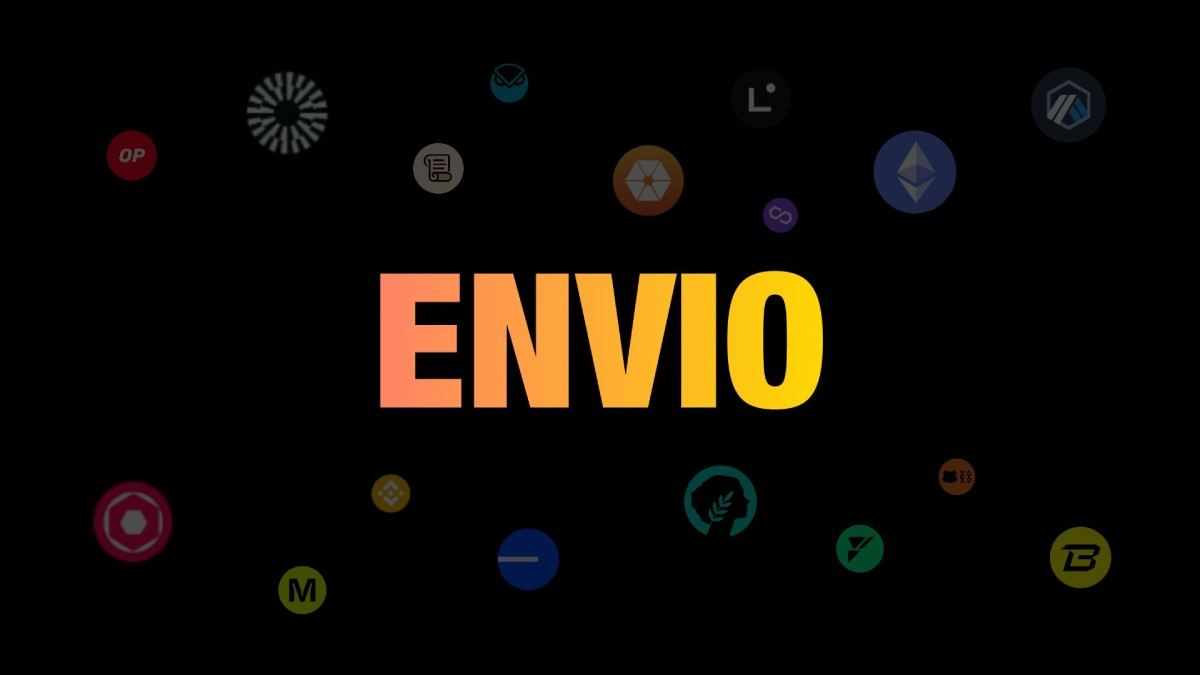
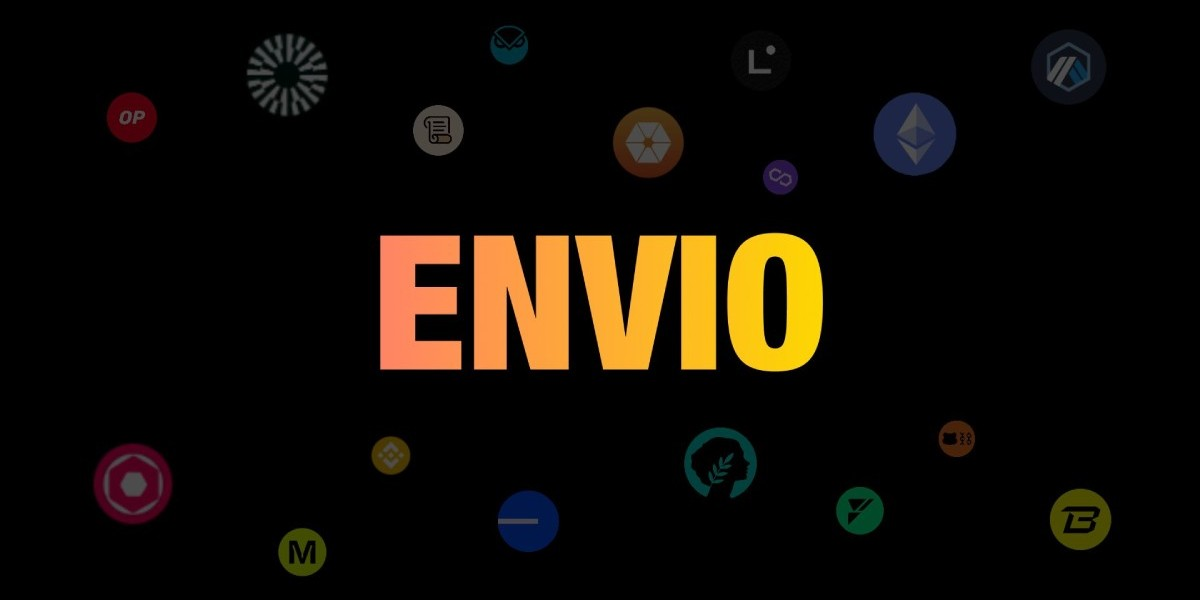
docs: update acknowledgements

diff --git a/content/en/pages/acknowledgements.md b/content/en/pages/acknowledgements.md
@@ -26,13 +26,17 @@ We have also received funding from [ENS](https://ens.domains/) and sponsors such
 
 Reliable blockchain data powers every feature of Revoke.cash, from understanding approvals to flagging risks. We need real-time transaction data, smart contract information and security intelligence to help users understand their token approvals and identify potential risks. This critical data comes from a combination of generous free partnerships and paid services.
 
-::img{src="/assets/images/acknowledgements/envio.jpg" alt="Envio Banner" width="1200" height="675"}
+::img{src="/assets/images/acknowledgements/envio.jpg" alt="Envio Banner" width="1200" height="600"}
 
 [Envio](https://envio.dev/) is a modern blockchain indexing platform that specializes in providing developers with fast, reliable access to on-chain data through their custom indexing infrastructure. Envio provides us with extensive historic data for many of the networks we support.
 
 ::img{src="/assets/images/acknowledgements/blockscout.jpg" alt="Blockscout Banner" width="1200" height="600"}
 
 [Blockscout](https://blockscout.com/) is an open-source blockchain explorer that supports multiple EVM-compatible networks, offering transparent blockchain data access with a focus on decentralization and openness. Blockscout provides us with historic data for many of the networks we support.
+
+::img{src="/assets/images/acknowledgements/goldrush.jpg" alt="Goldrush Banner" width="1200" height="600"}
+
+[Goldrush](https://goldrush.dev/) is a modern blockchain indexing platform that specializes in providing developers with fast, reliable access to on-chain data through their custom indexing infrastructure. Goldrush provides us with historic data for some of the networks we support.
 
 ::img{src="/assets/images/blog/2024/monthly-update-march/scamsniffer.jpg" alt="ScamSniffer Banner" width="1200" height="600"}
 
@@ -42,7 +46,7 @@ Reliable blockchain data powers every feature of Revoke.cash, from understanding
 
 [Webacy](https://webacy.com/) is a comprehensive web3 security platform that provides risk assessment tools and threat intelligence for smart contracts and DeFi protocols. Webacy provides us with real-time scam detection for spender addresses.
 
-We also use several paid data providers including [Alchemy](https://www.alchemy.com/), [Infura](https://infura.io/), [Etherscan](https://etherscan.io/), and [Covalent](https://www.covalenthq.com/). These commercial services complement our free data sources and provide additional coverage across different blockchain networks.
+We also use several paid data providers including [Alchemy](https://www.alchemy.com/), [Infura](https://infura.io/), and [Etherscan](https://etherscan.io/). These commercial services complement our free data sources and provide additional coverage across different blockchain networks.
 
 ## Technology Stack
 

diff --git a/content/en/exploits/short/dtrinity-dlend.md b/content/en/exploits/short/dtrinity-dlend.md
@@ -1,1 +1,1 @@
-The dLend product by dTrinity was exploited by malicious actors to drain approved user funds. The team has reported that it looks like $100k was stolen, which only belonged to dTrinity team members. A full post mortem is said to follow.
+The dLEND product by dTRINITY was exploited by malicious actors to drain approved user funds. The team has reported that $56k was stolen, which only belonged to dTRINITY team members.
